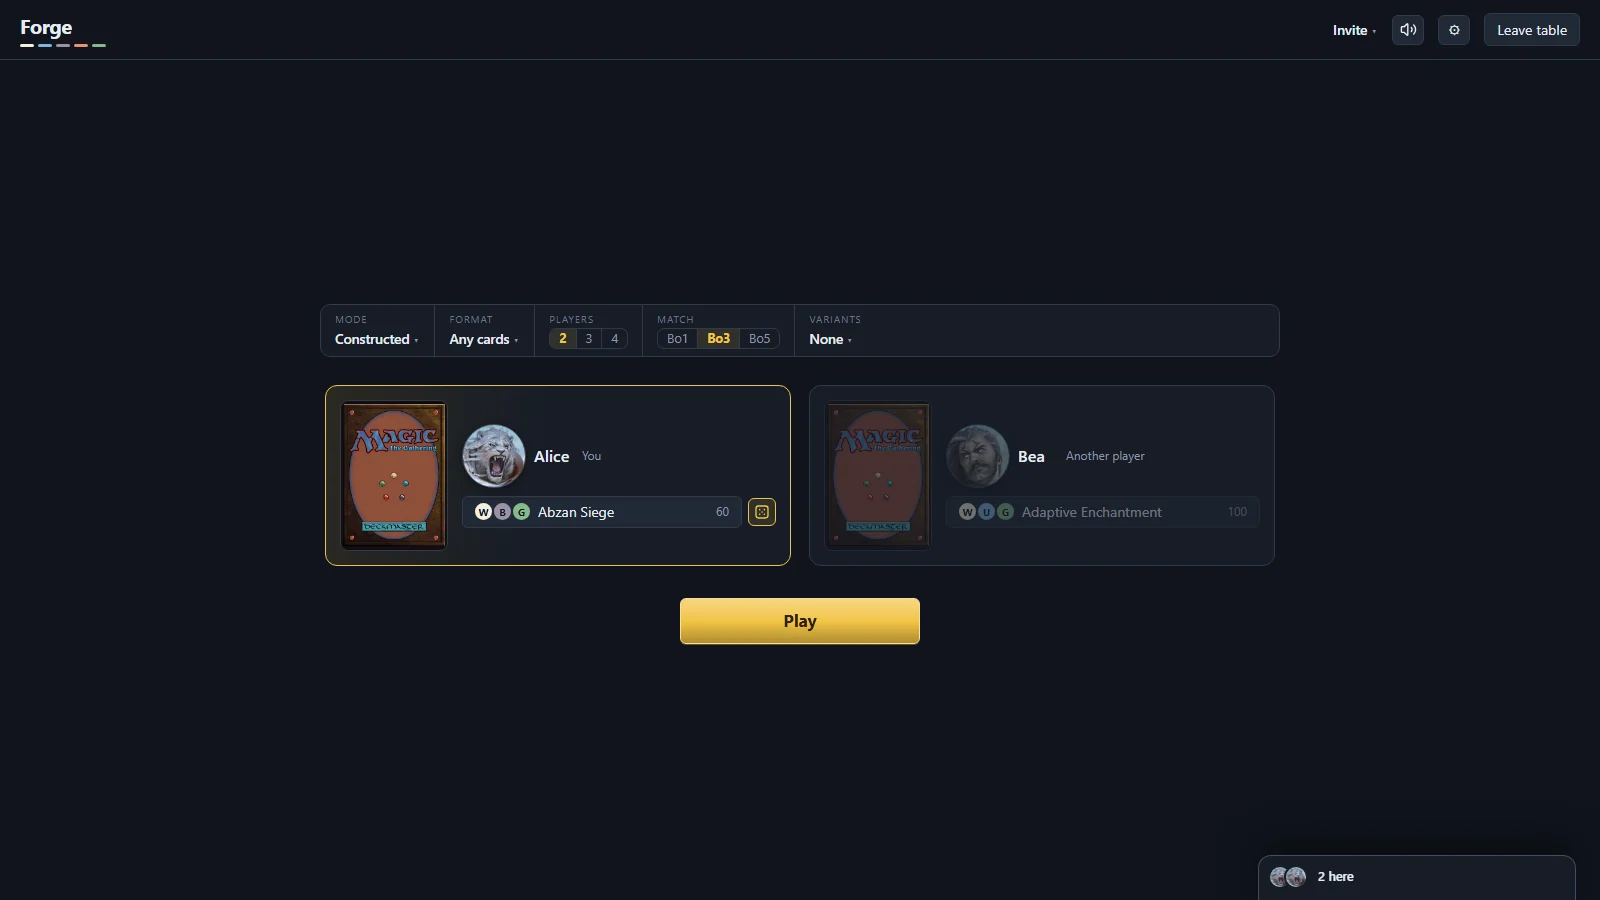
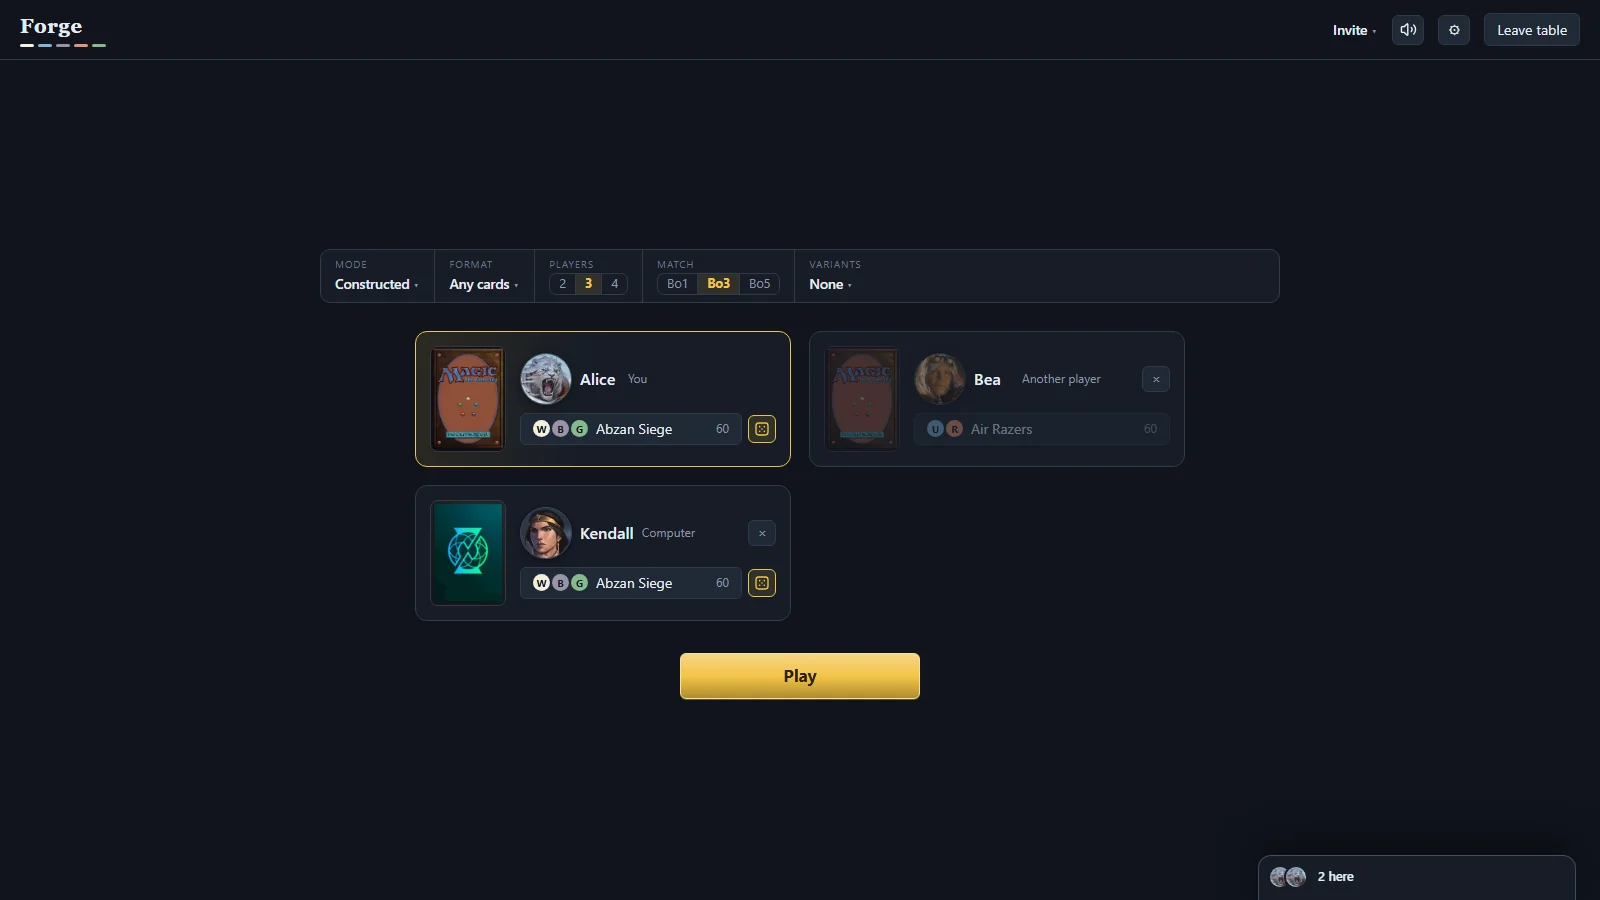
Retake the web README screenshots, two to a row, with attacking, blocking, targeting and a four-player game

Changed region(s): [[0.1875, 0.28, 0.7188, 0.7778], [0.0, 0.0, 0.0625, 0.0622], [0.7188, 0.4044, 0.75, 0.4356]]

diff --git a/forge-gui-web/README.md b/forge-gui-web/README.md
@@ -6,7 +6,12 @@ open it.
 
 The first half of this page is for players. The second half is for developers.
 
-![A match in progress](docs/match.webp)
+<p>
+  <img src="docs/attack.webp" width="49%" alt="Attacking, with the opponent's blocks and a spell targeting an attacker">
+  <img src="docs/target.webp" width="49%" alt="A spell's targets while it is paid for">
+  <img src="docs/block.webp" width="49%" alt="Blocking an attack">
+  <img src="docs/four.webp" width="49%" alt="A four-player game, attacking two opponents">
+</p>
 
 ## For players
 
@@ -35,7 +40,7 @@ You need Java 17 or newer, and Maven. From the top folder of the Forge repositor
 
 Two windows open: the game, in your browser, and the **server window**.
 
-![The server window](docs/server.webp)
+<img src="docs/server.webp" width="49%" alt="The server window">
 
 The server window starts and stops the server, and shows the links people can use to join. It also shows a graph
 of network traffic, and a log you can copy with **Copy log**.
@@ -50,8 +55,6 @@ playing let you choose Constructed, Draft or Sealed.
 
 A guest joins the host's table and plays there. A guest can't play the computer on their own, change how the table
 is set up, or use dev mode.
-
-![A table with a guest seated](docs/table.webp)
 
 At the table, the bar along the top sets up the match:
 
@@ -78,7 +81,10 @@ change every time Forge starts.
 If someone reloads the page or loses their connection, they go straight back to their seat and the game carries
 on.
 
-![The end of a game](docs/victory.webp)
+<p>
+  <img src="docs/table.webp" width="49%" alt="A table with a guest seated">
+  <img src="docs/victory.webp" width="49%" alt="The end of a game">
+</p>
 
 ### Decks and settings
 
